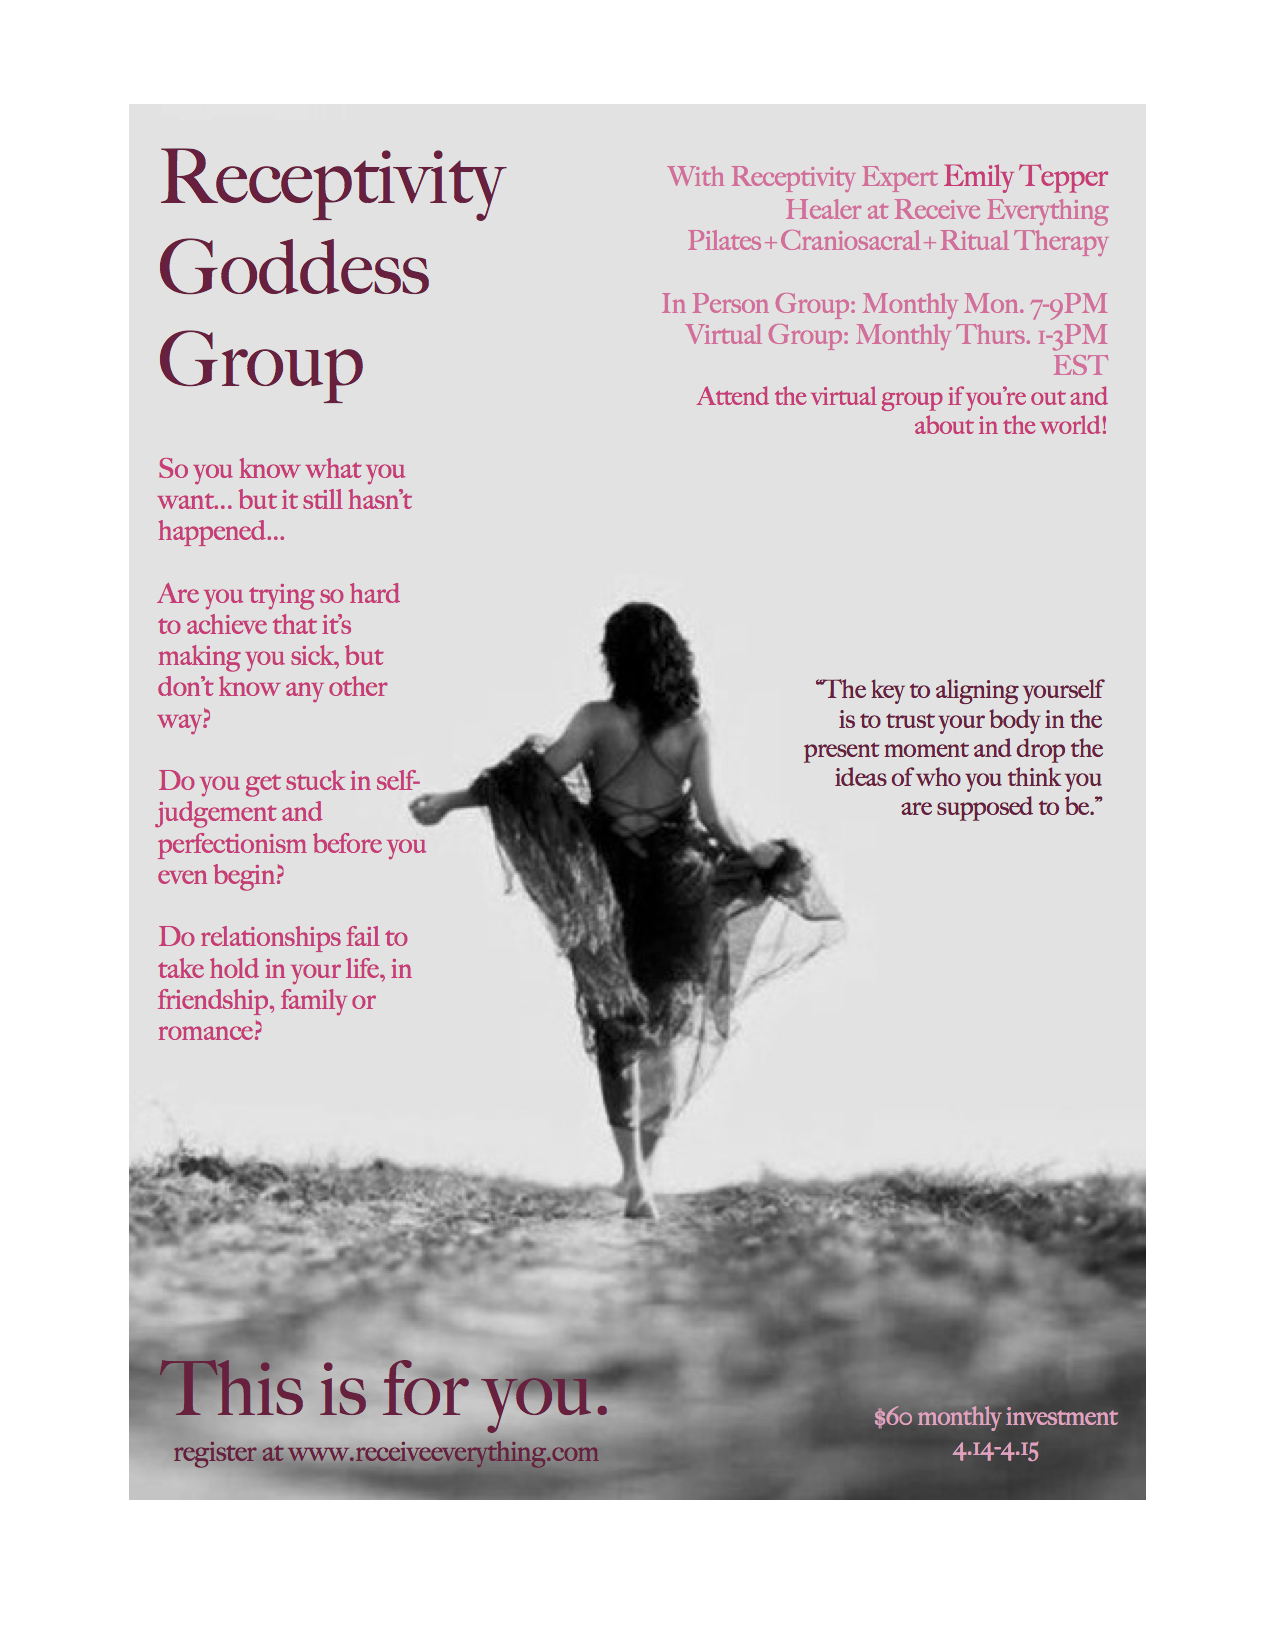
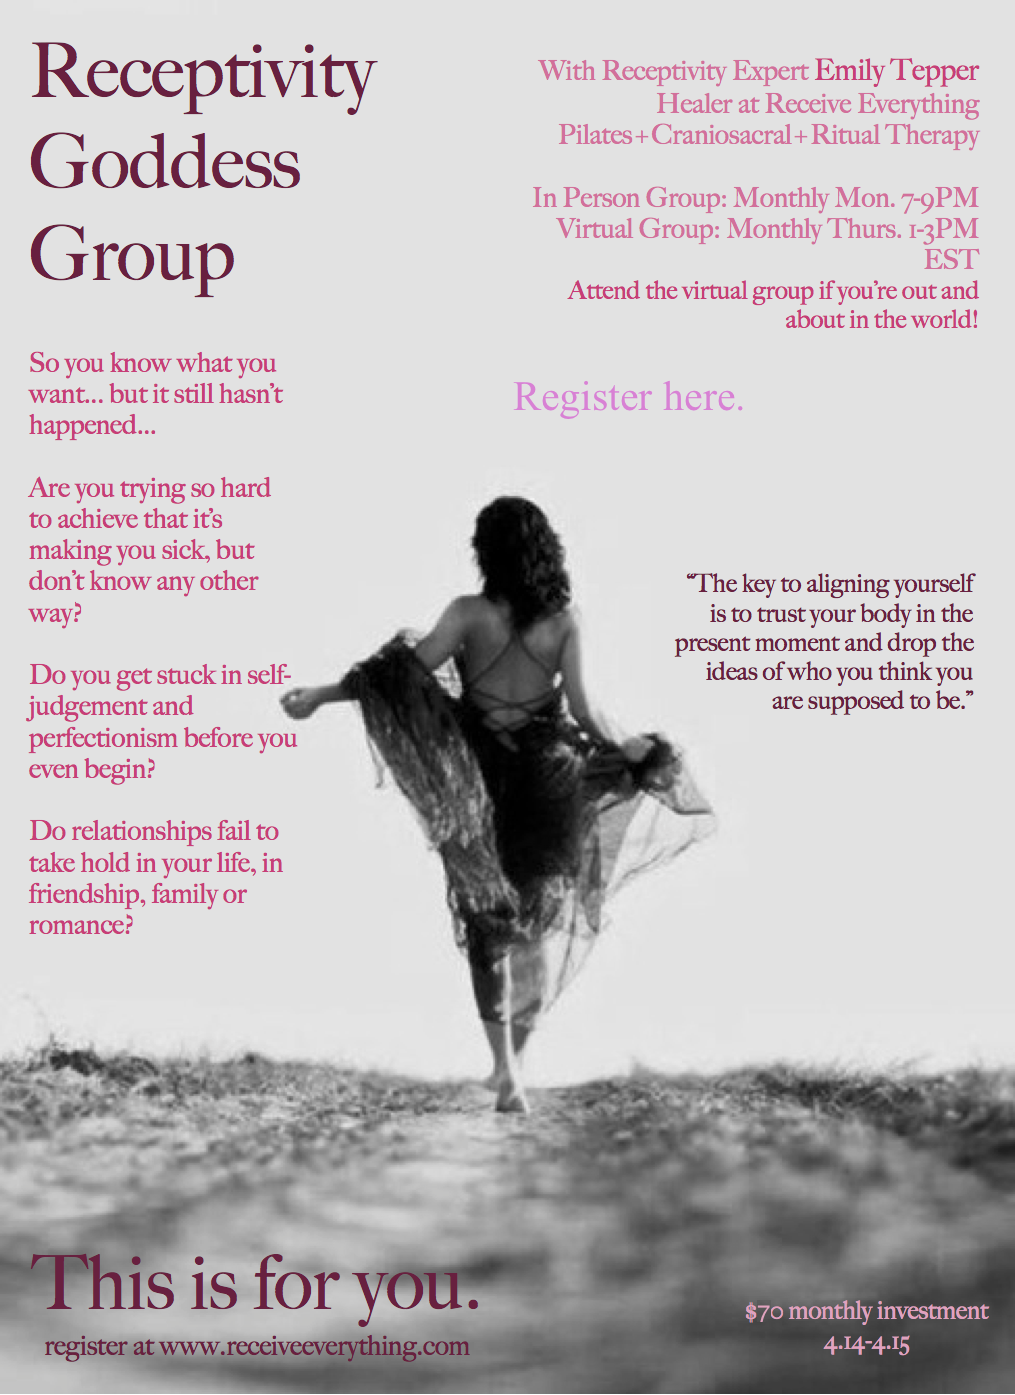
updated goddess registration page layout

diff --git a/app/assets/stylesheets/goddesses.css.scss b/app/assets/stylesheets/goddesses.css.scss
@@ -2,18 +2,6 @@
 // They will automatically be included in application.css.
 // You can use Sass (SCSS) here: http://sass-lang.com/
 
-#goddess_title {
-  text-align: center;
-}
-
-#left_goddess_flyer {
-  width: 45%;
-}
-
-#right_goddess_flyer {
-  width: 39%;
-}
-
 #manifestation {
   display: inline-block;
   height: 300px;
@@ -27,4 +15,8 @@
 
 #goddess_registration_pane {
   display: none;
+}
+
+#offer_flyer img {
+  width: 100%;
 }
